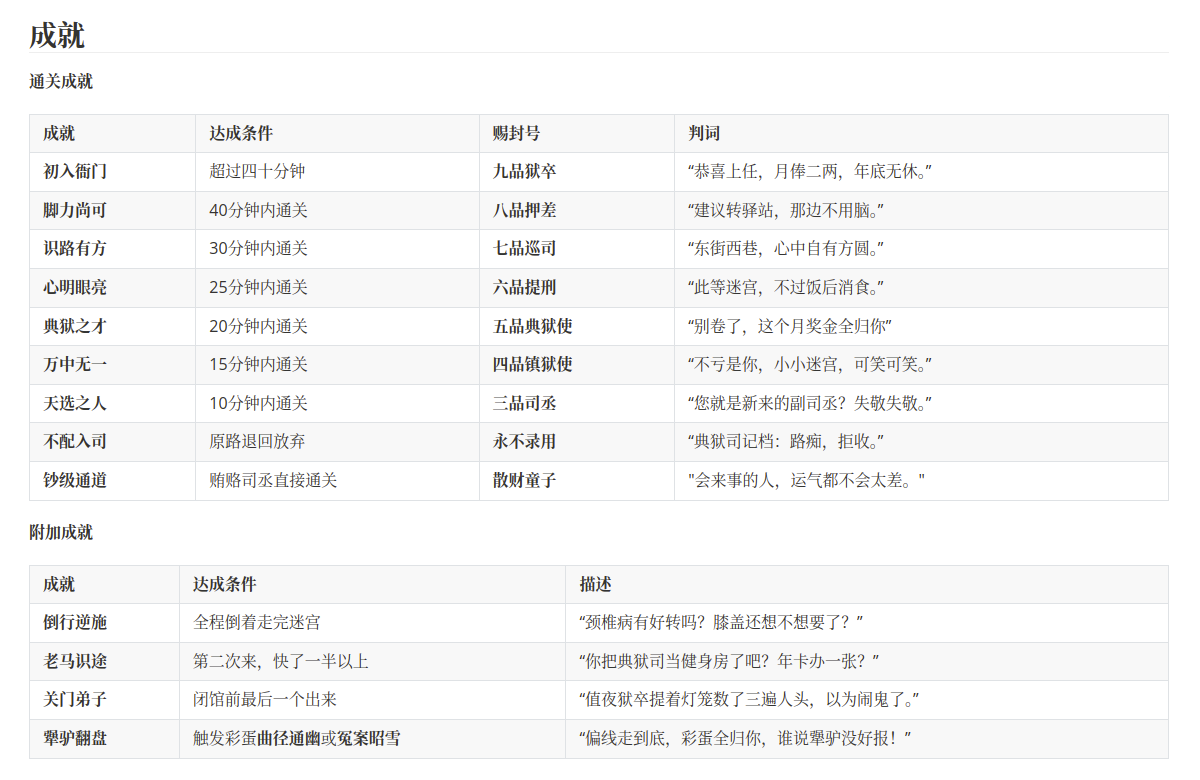
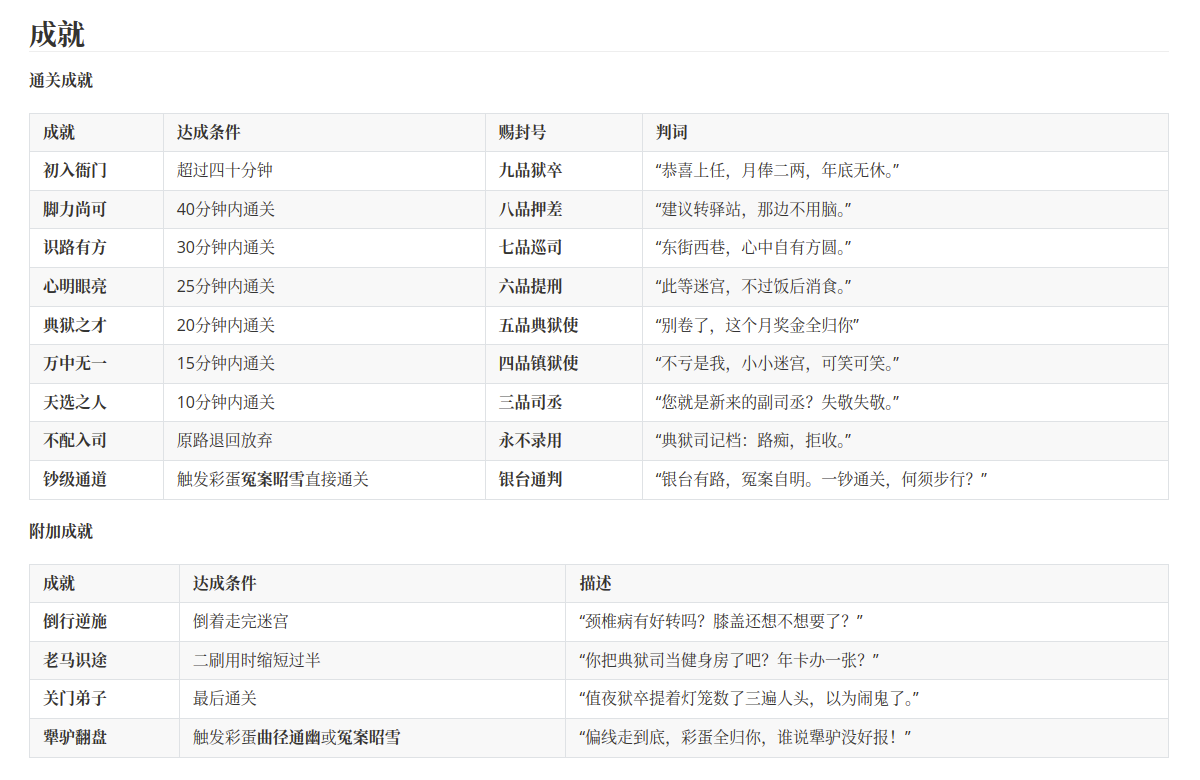
fix:Upt context

diff --git a/11 Other/YYSLS/map/find_dead_ends.py b/11 Other/YYSLS/map/find_dead_ends.py
@@ -1,0 +1,33 @@
+def find_dead_ends(filename="edge.txt", start="S", target="L1"):
+    # 构建无向图：每个节点用 set 存储其邻居（自动去重）
+    neighbors = {}
+    with open(filename, 'r', encoding='utf-8') as f:
+        for line in f:
+            line = line.strip()
+            if not line:
+                continue
+            parts = line.split(',')
+            if len(parts) < 3:
+                continue
+            u, v = parts[0].strip(), parts[1].strip()
+            # 添加双向连接（因为是双向图）
+            if u not in neighbors:
+                neighbors[u] = set()
+            if v not in neighbors:
+                neighbors[v] = set()
+            neighbors[u].add(v)
+            neighbors[v].add(u)
+
+    # 筛选度为 1 且不是起点或终点的节点
+    dead_ends = [node for node, nbrs in neighbors.items()
+                 if len(nbrs) == 1 and node not in (start, target)]
+
+    # 按字母顺序排序输出
+    dead_ends.sort()
+    print(f"死胡同节点数: {len(dead_ends)}")
+    print("节点列表:")
+    for node in dead_ends:
+        print(node)
+
+if __name__ == "__main__":
+    find_dead_ends()

diff --git a/11 Other/YYSLS/map/迷宫创意.md b/11 Other/YYSLS/map/迷宫创意.md
@@ -23,50 +23,60 @@
 
 **通关成就**
 
-| 成就         | 达成条件                     | 赐封号         | 判词                             |
-| :----------- | :--------------------------- | :------------- | :------------------------------- |
-| **初入衙门** | 超过四十分钟                 | **九品狱卒**   | “恭喜上任，月俸二两，年底无休。” |
-| **脚力尚可** | 40分钟内通关                 | **八品押差**   | “建议转驿站，那边不用脑。”       |
-| **识路有方** | 30分钟内通关                 | **七品巡司**   | “东街西巷，心中自有方圆。”       |
-| **心明眼亮** | 25分钟内通关                 | **六品提刑**   | “此等迷宫，不过饭后消食。”       |
-| **典狱之才** | 20分钟内通关                 | **五品典狱使** | “别卷了，这个月奖金全归你”       |
-| **万中无一** | 15分钟内通关                 | **四品镇狱使** | “不亏是你，小小迷宫，可笑可笑。” |
-| **天选之人** | 10分钟内通关                 | **三品司丞**   | “您就是新来的副司丞？失敬失敬。” |
-| **不配入司** | 原路退回放弃                 | **永不录用**   | “典狱司记档：路痴，拒收。”       |
-| **钞级通道** | 触发彩蛋**冤案昭雪**直接通关 | **散财童子**   | "会来事的人，运气都不会太差。"   |
+| 成就         | 达成条件                     | 赐封号         | 判词                                       |
+| :----------- | :--------------------------- | :------------- | :----------------------------------------- |
+| **初入衙门** | 超过四十分钟                 | **九品狱卒**   | “恭喜上任，月俸二两，年底无休。”           |
+| **脚力尚可** | 40分钟内通关                 | **八品押差**   | “建议转驿站，那边不用脑。”                 |
+| **识路有方** | 30分钟内通关                 | **七品巡司**   | “东街西巷，心中自有方圆。”                 |
+| **心明眼亮** | 25分钟内通关                 | **六品提刑**   | “此等迷宫，不过饭后消食。”                 |
+| **典狱之才** | 20分钟内通关                 | **五品典狱使** | “别卷了，这个月奖金全归你”                 |
+| **万中无一** | 15分钟内通关                 | **四品镇狱使** | “不亏是我，小小迷宫，可笑可笑。”           |
+| **天选之人** | 10分钟内通关                 | **三品司丞**   | “您就是新来的副司丞？失敬失敬。”           |
+| **不配入司** | 原路退回放弃                 | **永不录用**   | “典狱司记档：路痴，拒收。”                 |
+| **钞级通道** | 触发彩蛋**冤案昭雪**直接通关 | **银台通判**   | “银台有路，冤案自明。一钞通关，何须步行？” |
 
 **附加成就**
 
 | 成就         | 达成条件                           | 描述                                         |
 | :----------- | :--------------------------------- | :------------------------------------------- |
-| **倒行逆施** | 全程倒着走完迷宫                   | “颈椎病有好转吗？膝盖还想不想要了？”         |
-| **老马识途** | 第二次来，快了一半以上             | “你把典狱司当健身房了吧？年卡办一张？”       |
-| **关门弟子** | 闭馆前最后一个出来                 | “值夜狱卒提着灯笼数了三遍人头，以为闹鬼了。” |
+| **倒行逆施** | 倒着走完迷宫                       | “颈椎病有好转吗？膝盖还想不想要了？”         |
+| **老马识途** | 二刷用时缩短过半                   | “你把典狱司当健身房了吧？年卡办一张？”       |
+| **关门弟子** | 最后通关                           | “值夜狱卒提着灯笼数了三遍人头，以为闹鬼了。” |
 | **犟驴翻盘** | 触发彩蛋**曲径通幽**或**冤案昭雪** | “偏线走到底，彩蛋全归你，谁说犟驴没好报！”   |
 
 ## 彩蛋
 
 **影响闯关彩蛋**
 
-| 彩蛋             | 达成条件                                                     | 描述                                         | 奖励                     |
-| :--------------- | :----------------------------------------------------------- | :------------------------------------------- | ------------------------ |
-| **反向明灯**     | 全队走过超过10条死路尽头                                     | “好像要长脑子了？——可惜是痒，不是灵”         | 全体-5分钟，安慰奖也是奖 |
-| **最强大脑**     | 指挥看图纸破解5条最短路径上点                                | "走错门了？孤云在开封？不算卦谢谢！"         | 全体-10分钟              |
-| **典狱司的客人** | 在迷宫里找到隐藏的“司丞办公室”                               | “司丞：行贿是吧？礼放那边。”                 | 通报后续5条关键路径      |
-| **逆天改命**     | 不是推荐路线，仍然通关                                       | “您就是那个专门和我作对的人吧？”             | 全体-30分钟              |
-| **曲径通幽**     | 找到并利用了一条“非正式”通道（彩蛋通道）                     | “这都能发现？您属老鼠的吧？”                 | **半步登天：瞬移13/24**  |
-| **冤案昭雪**     | 1、在迷宫某层找到隐藏的“钱财”<br/>2、在迷宫某层找到财神爷<br/>3、解谜，并做“解谜”姿态 | 司丞掂了掂钱，大印一盖：此人无罪，当庭释放。 | **直接通关**             |
+| 彩蛋             | 达成条件                             | 描述                                         | 奖励                     |
+| :--------------- | :----------------------------------- | :------------------------------------------- | ------------------------ |
+| **反向明灯**     | 全队累计走入死路 **≥2次**            | “好像要长脑子了？——可惜是痒，不是灵”         | 全体-5分钟，安慰奖也是奖 |
+| **最强大脑**     | 指挥依图纸破解 **5条** 最短路径节点  | "走错门了？孤云在开封？不算卦谢谢！"         | 全体-10分钟              |
+| **典狱司的客人** | 找到隐藏的“**司丞办公室**”           | “司丞：行贿是吧？礼放那边。”                 | 通报后续5条关键路径      |
+| **逆天改命**     | 不走推荐路线，依旧通关               | “您就是那个专门和我作对的人吧？”             | 全体-30分钟              |
+| **曲径通幽**     | 找到并利用非正式通道（彩蛋通道）     | “这都能发现？您属老鼠的吧？”                 | **半步登天：瞬移13/24**  |
+| **冤案昭雪**     | 集齐“钱财”与“财神爷”，并完成解谜动作 | 司丞掂了掂钱，大印一盖：此人无罪，当庭释放。 | **直接通关**             |
 
-**趣味彩蛋**
+**隐藏趣味彩蛋**
 
-| 彩蛋           | 达成条件                              | 描述                                           |
-| :------------- | :------------------------------------ | :--------------------------------------------- |
-| **一步登天**   | 在同一层绕回不超过两次                | “来人！典狱司图纸失窃的案子有眉目了——就他”     |
-| **原地成仙**   | 同一层绕回3次以上                     | “三过家门而不入——您比大禹还能绕。”             |
-| **安静如鸡**   | 全程不发出任何声音走完                | “您是哑巴新娘还是忍者转世？一点动静没有        |
-| **兜兜转转**   | 同一层超过5分钟没找到出口             | “驴拉磨都没您墨迹。”                           |
-| **南辕北辙**   | 指挥说什么，偏偏反着走                | “你走反了！不，是这个世界反了！”               |
-| **霸王硬上弓** | 遇到楼梯从不犹豫，直接往上爬，3次以上 | “犹豫就会败北，果断就会白给——反正楼梯都一样。” |
+| 彩蛋           | 达成条件                          | 描述                                           |
+| :------------- | :-------------------------------- | :--------------------------------------------- |
+| **原地兜风**   | 同层绕回 ≥4 次                    | “三过家门而不入——您比大禹还能绕。”             |
+| **兜兜转转**   | 同层超过5分钟未找到出口           | “驴拉磨都没您墨迹。”                           |
+| **南辕北辙**   | 指挥说什么，偏偏反着走            | “你走反了！不，是这个世界反了！”               |
+| **霸王硬上弓** | 遇楼梯直接上（不犹豫），累计 ≥3次 | “犹豫就会败北，果断就会白给——反正楼梯都一样。” |
+| **社恐の胜利** | 全程开麦和打字次数≤5次            | ”安静的像一张壁纸，却默默走到了终点。”         |
+
+**隐藏影响闯关彩蛋**
+
+| 彩蛋         | 达成条件                           | 描述                                                 | 奖励                |
+| :----------- | :--------------------------------- | :--------------------------------------------------- | ------------------- |
+| **知音难觅** | 全队累计夸奖司丞 **≥5句**          | "会来事的人，运气都不会太差。"                       | 通报后续5条关键路径 |
+| **众星捧月** | 全员均夸奖过司丞，且累计 **>10句** | “慧眼如炬，本官岂能小气？喏，拿去抄近道吧！”         | 获得全部最短路径    |
+| **溜须有术** | 夸奖典狱司装修，并让司丞满意       | “算你识货，这装修可是本官手笔！”                     | 通报后续3条关键路径 |
+| **祸从口出** | 全队累计诋毁司丞 **≥5句**          | “好哇，连本官的场子都敢砸？来人！给他们加练十分钟！” | 全体+10分钟         |
+
+
 
 **冤案昭雪**
 
@@ -79,7 +89,7 @@
 
 
 
-截图尺寸
+### 截图
 
 - 100%缩放
 - 自定义截图：
@@ -88,9 +98,10 @@
 - 三张图尺寸：
   - 规则：470
   - 成就：780
-  - 彩蛋：780
+  - 彩蛋：940
+    - 无隐藏彩蛋：380
 
-
+### 墙体倍率
 
 | 倍率 | 尺寸 |
 | ---- | ---- |
@@ -100,4 +111,40 @@
 | 6    | 4    |
 | 7.5  | 5    |
 | 9    | 6    |
+
+### 跨楼层梯子
+
+| 源   | 目的 | 距离 | 彩蛋                   |
+| :--- | :--- | :--- | ---------------------- |
+| A2   | C1   | 3    |                        |
+| A9   | D8   | 3    | **一步之遥：发现暗门** |
+| A19  | D4   | 3    |                        |
+| B10  | D4   | 3    |                        |
+| B18  | E8   | 3    |                        |
+| F5   | H2   | 3    |                        |
+| F5   | I13  | 3    |                        |
+| D3   | I1   | 5    |                        |
+| A8   | F3   | 6    | **典狱司的客人**       |
+| A8   | G3   | 6    | **典狱司的客人**       |
+
+### 死胡同
+
+死胡同节点数: 4
+
+- B12
+- E2
+- F4
+- K4
+
+
+
+### 答案
+
+| 第六条路二选一        | (楼梯高度)   |              |                   |             |
+| :-------------------- | :----------- | :----------- | :---------------- | :---------- |
+| ① S（起点）           | ② A10 (1.0)  | ③ A17 (1.0)  | ④ A23 (1.0)       | ⑤ B20 (1.0) |
+| ⑥ **C19 / C20** (1.0) | ⑦ D19 (2.0)  | ⑧ C9 (1.0)   | ⑨ C7 (1.0)        | ⑩ C6 (1.0)  |
+| ⑪ C3 (2.0)            | ⑫ E1 (1.0)   | ⑬ F6 (1.0)   | ⑭ G10 (1.0)       | ⑮ H9 (1.0)  |
+| ⑯ I14 (1.0)           | ⑰ J11 (1.0)  | ⑱ K14 (1.0)  | ⑲ K18 (1.0)       | ⑳ J15 (1.0) |
+| ㉑ J10 (2.0)          | ㉒ K13 (1.0) | ㉓ K11 (1.0) | ㉔ **L1**（终点） |             |
 
